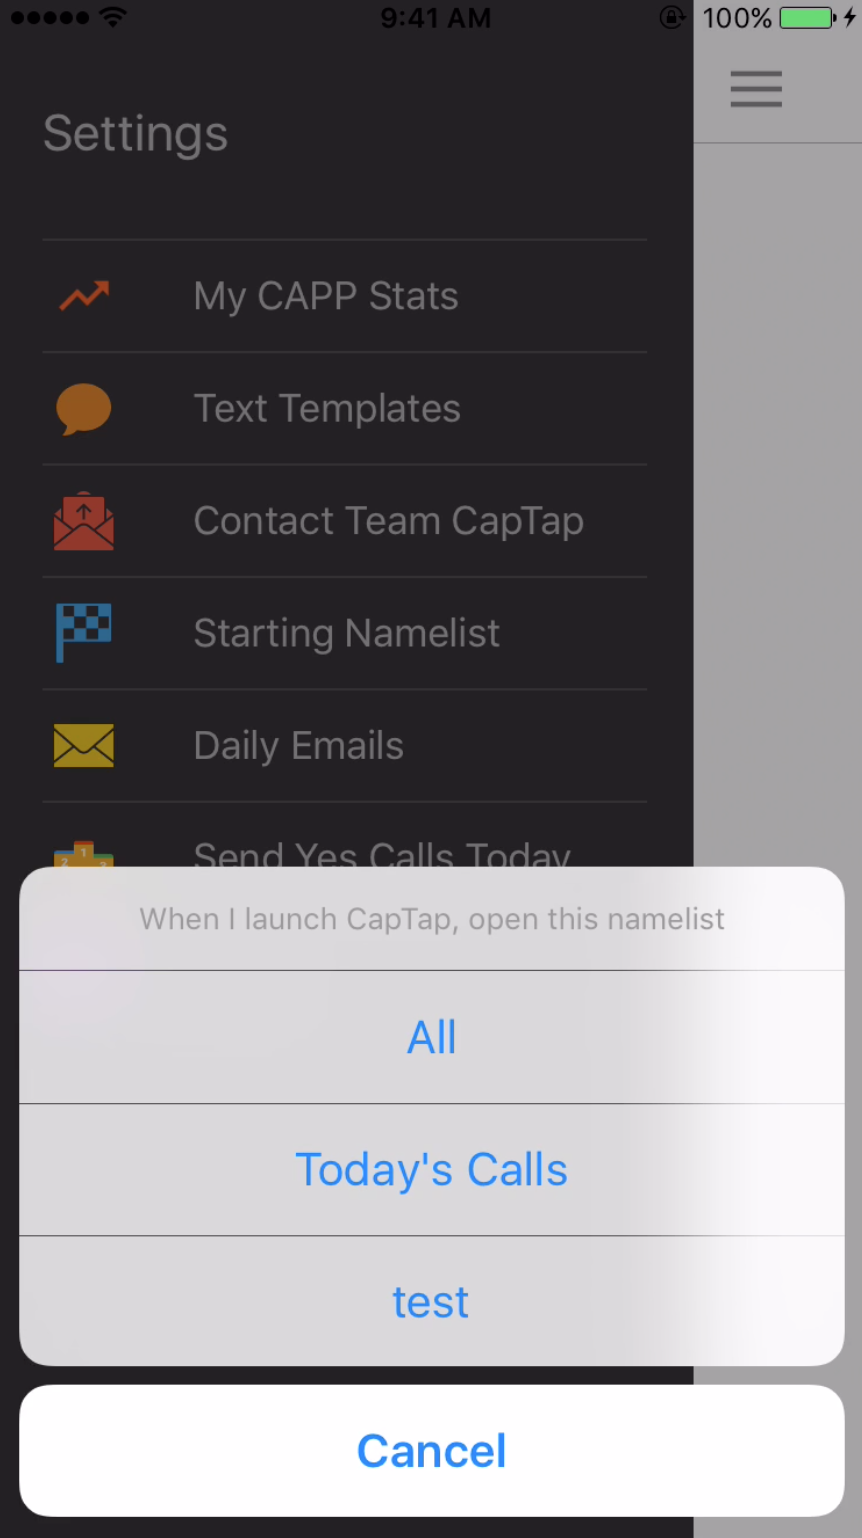
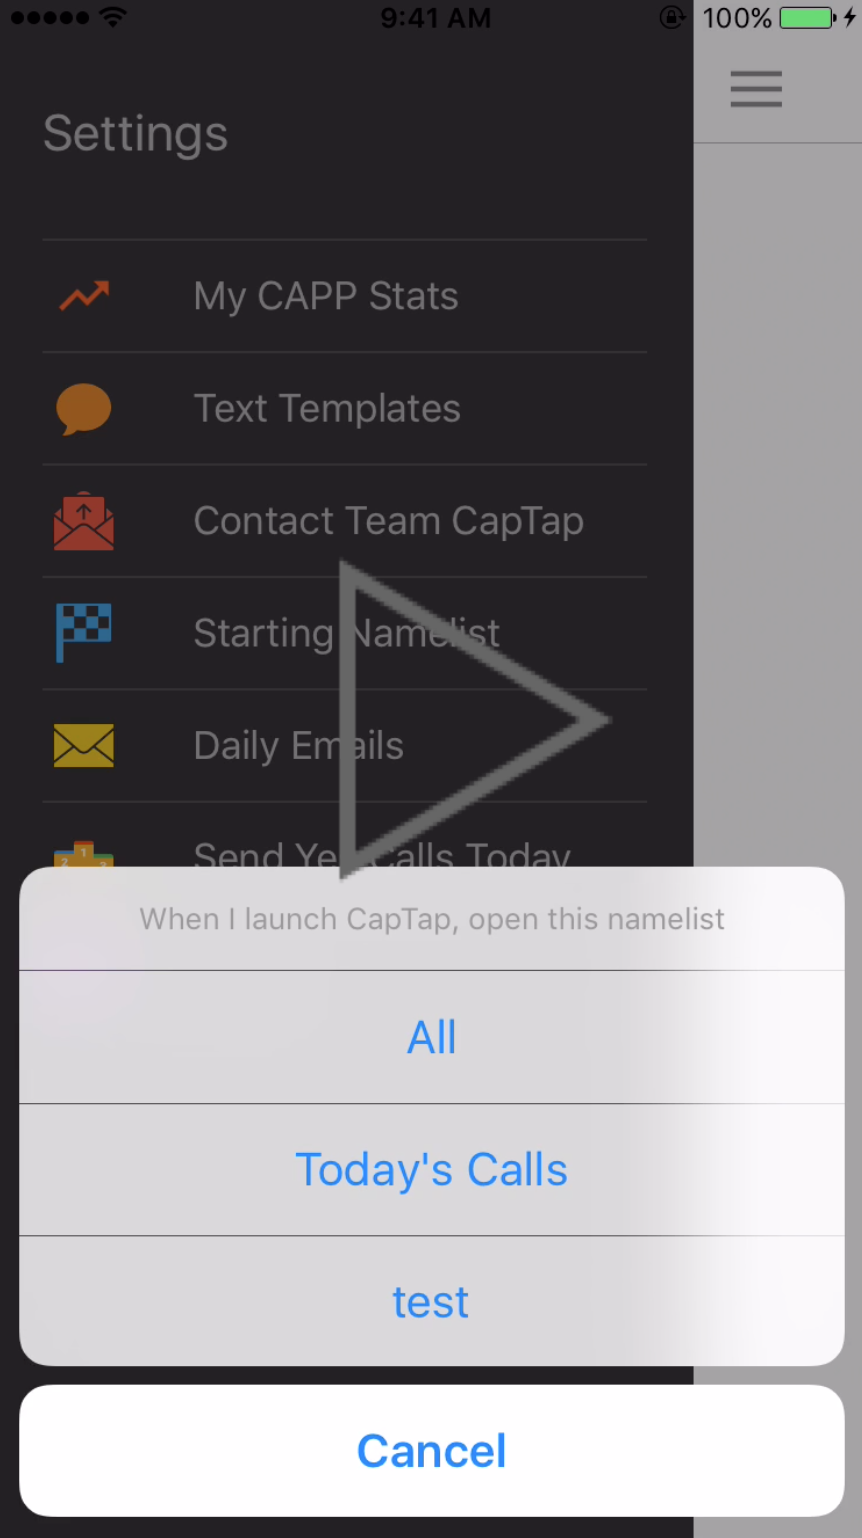
* UIBuilder.cs: * Play-LightGray.png: * HowToCappScreenshot.png: * HowToFeedbackScreenshot.png: * HowToUseStatsScreenshot.png: * HowToSetStartingScreenshot.png: * HowToSendYesCallsScreenshot.png: * HowToUseDailyEmailScreenshot.png: * HowToUseTextTemplatesScreenshot.png:
* Capp2.iOS.csproj: tutorial view done, except for Add Manually option
  in AddContacts()

Changed region(s): [[0.3921, 0.3433, 0.6937, 0.593]]

diff --git a/Capp2/Helpers/UIBuilder.cs b/Capp2/Helpers/UIBuilder.cs
@@ -19,7 +19,7 @@ namespace Capp2
 
 			var stack = new StackLayout { 
 				Orientation = StackOrientation.Vertical,
-				Padding = new Thickness(10, 0),
+				//Padding = new Thickness(10, 0),
 				HorizontalOptions = LayoutOptions.Start,
 				VerticalOptions = LayoutOptions.FillAndExpand,
 			};
@@ -62,12 +62,20 @@ namespace Capp2
 			Image img = CreateTappableImage (imagePath, LayoutOptions.Center, Aspect.AspectFit, new Command(()=>{
 				DependencyService.Get<IVideoHelper>().PlayVideo(videotoplay);
 			}), lbl.FontSize, 60, 30);
+			Image PlayIcon = CreateTappableImage ("Play-LightGray.png", LayoutOptions.Center, Aspect.AspectFit, 
+				new Command(()=>{
+					DependencyService.Get<IVideoHelper>().PlayVideo(videotoplay);
+				}), lbl.FontSize, 3, 3);
 
 			var stack = new StackLayout{
 				Orientation = StackOrientation.Vertical,
 				Padding = new Thickness(10),
 				Children = {
 					img,
+					/*AddElementToObjectWithXYConstraint (img, PlayIcon, 
+						Constraint.RelativeToParent((parent) =>  { return parent.Width/2; }), 
+						Constraint.RelativeToParent((parent) =>  { return parent.Height/2; })
+					),*/
 					lbl,
 				}
 			};
@@ -277,9 +285,11 @@ namespace Capp2
 		}
 
 		public static RelativeLayout AddElementToObjectWithXYConstraint(
-			View parentElement, View ElementToAdd, double xOnParent, double yOnParent)
+			View parentElement, View ElementToAdd, Constraint xOnParent, Constraint yOnParent)
 		{ 
 			RelativeLayout layout = new RelativeLayout ();
+			layout.HorizontalOptions = LayoutOptions.FillAndExpand;
+			layout.VerticalOptions = LayoutOptions.FillAndExpand;
 			layout.Children.Add(
 				parentElement,
 				xConstraint: Constraint.Constant(0),
@@ -289,8 +299,8 @@ namespace Capp2
 			);
 			layout.Children.Add (
 				ElementToAdd,
-				xConstraint: Constraint.RelativeToParent((parent) =>  { return (parent.Width - ElementToAdd.Width) - xOnParent; }),
-				yConstraint: Constraint.RelativeToParent((parent) =>  { return (parent.Height - ElementToAdd.Height) - yOnParent; })
+				xConstraint: xOnParent/*Constraint.RelativeToParent((parent) =>  { return (parent.Width - ElementToAdd.Width) - xOnParent; })*/,
+				yConstraint: yOnParent/*Constraint.RelativeToParent((parent) =>  { return (parent.Height - ElementToAdd.Height) - yOnParent; })*/
 			);
 			Debug.WriteLine ("Parent row width: {0}, Parent row height: {1}, child row width {2}, child row height {3}", 
 				parentElement.Width, parentElement.Height, ElementToAdd.Width, ElementToAdd.Height);
